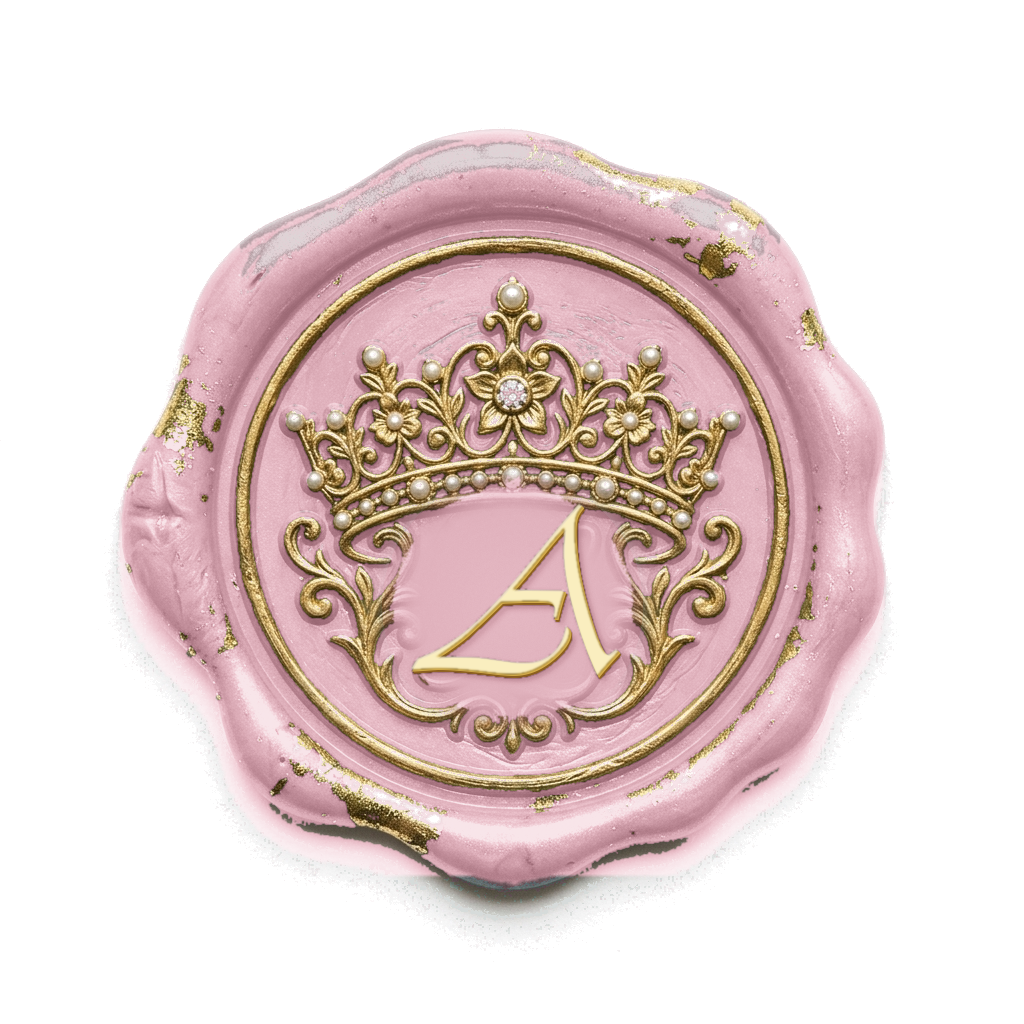
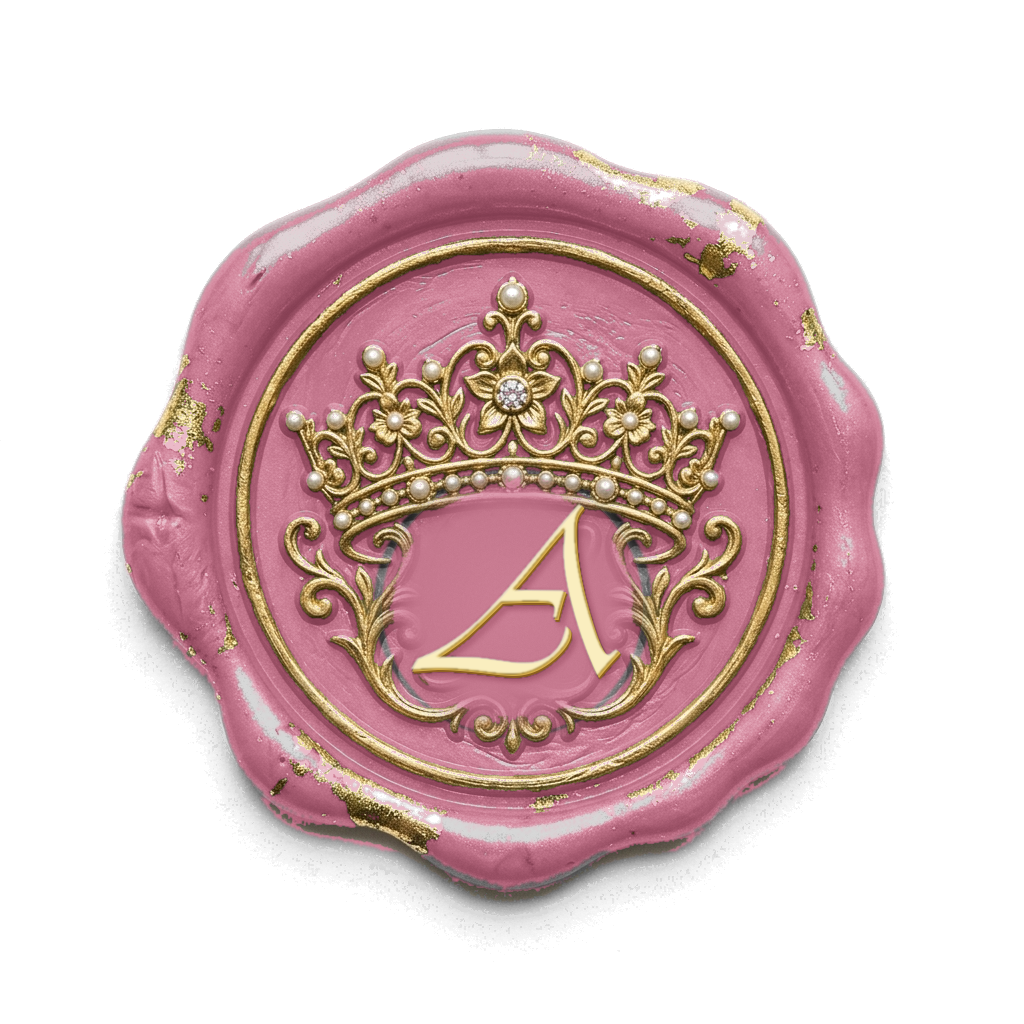
style(abrianamia): deepen wax seal to rich dusty rose blush matching language button

diff --git a/abrianamia/index.html b/abrianamia/index.html
@@ -47,7 +47,7 @@
 
   <!-- Preload Critical Above-The-Fold Entry Backdrop & Assets for Instant Display -->
   <link rel="preload" as="image" href="photos/flatlay-backdrop.jpg?v=1" fetchpriority="high" />
-  <link rel="preload" as="image" href="photos/wax-seal.png?v=3" />
+  <link rel="preload" as="image" href="photos/wax-seal.png?v=4" />
 
   <link rel="stylesheet" href="style.css?v=1.0.0" />
 </head>
@@ -182,7 +182,7 @@
           </svg>
 
           <button type="button" class="wax-seal-btn has-img" aria-label="Open Invitation">
-            <img class="wax-seal-img" src="photos/wax-seal.png?v=3" alt="Monogram A Wax Seal" aria-hidden="true" />
+            <img class="wax-seal-img" src="photos/wax-seal.png?v=4" alt="Monogram A Wax Seal" aria-hidden="true" />
           </button>
         </div>
 
